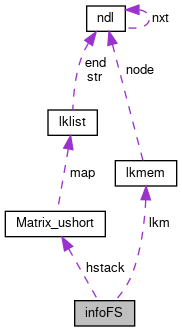
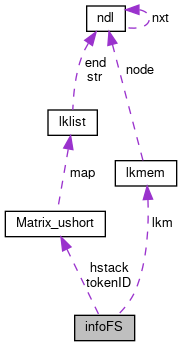
deploy: 90115dbbcb395f986a5ec3b7a64ab3b630ae7bd2

diff --git a/FindSimilar_8h_source.html b/FindSimilar_8h_source.html
@@ -90,7 +90,7 @@ $(function() {
 <div class="line"><a name="l00029"></a><span class="lineno">   29</span>&#160;<span class="preprocessor">#define ULONG  long</span></div>
 <div class="line"><a name="l00030"></a><span class="lineno">   30</span>&#160;<span class="preprocessor">#define UINT  int</span></div>
 <div class="line"><a name="l00031"></a><span class="lineno">   31</span>&#160;<span class="preprocessor">#define USHORT unsigned short</span></div>
-<div class="line"><a name="l00032"></a><span class="lineno">   32</span>&#160;<span class="preprocessor">#define ushort unsigned short</span></div>
+<div class="line"><a name="l00032"></a><span class="lineno">   32</span>&#160;<span class="preprocessor">#define ushort int</span></div>
 <div class="line"><a name="l00033"></a><span class="lineno">   33</span>&#160; </div>
 <div class="line"><a name="l00034"></a><span class="lineno">   34</span>&#160;<span class="preprocessor">#include &lt;stdlib.h&gt;</span></div>
 <div class="line"><a name="l00035"></a><span class="lineno">   35</span>&#160;<span class="preprocessor">#include &lt;assert.h&gt;</span></div>
@@ -118,7 +118,7 @@ $(function() {
 <div class="line"><a name="l00058"></a><span class="lineno">   58</span>&#160;<span class="keywordtype">void</span> init_lkmem(<a class="code" href="structlkmem.html">lkmem</a>* lkm, <span class="keywordtype">int</span> size);</div>
 <div class="line"><a name="l00059"></a><span class="lineno">   59</span>&#160;<span class="keywordtype">void</span> kill_lkmem(<a class="code" href="structlkmem.html">lkmem</a>* lkm);</div>
 <div class="line"><a name="l00060"></a><span class="lineno">   60</span>&#160;<a class="code" href="structndl.html">ndl</a>* get_ndl_mem(<a class="code" href="structlkmem.html">lkmem</a>*lkm);</div>
-<div class="line"><a name="l00061"></a><span class="lineno">   61</span>&#160;<span class="keywordtype">void</span> append_lk(<a class="code" href="structlklist.html">lklist</a>* list, <span class="keywordtype">short</span> val, <a class="code" href="structlkmem.html">lkmem</a>* lkm);</div>
+<div class="line"><a name="l00061"></a><span class="lineno">   61</span>&#160;<span class="keywordtype">void</span> append_lk(<a class="code" href="structlklist.html">lklist</a>* list, ushort val, <a class="code" href="structlkmem.html">lkmem</a>* lkm);</div>
 <div class="line"><a name="l00062"></a><span class="lineno">   62</span>&#160; </div>
 <div class="line"><a name="l00063"></a><span class="lineno">   63</span>&#160; </div>
 <div class="line"><a name="l00064"></a><span class="lineno">   64</span>&#160; </div>
@@ -140,27 +140,28 @@ $(function() {
 <div class="line"><a name="l00080"></a><span class="lineno">   80</span>&#160;    <span class="keywordtype">bool</span>* isVis;</div>
 <div class="line"><a name="l00081"></a><span class="lineno">   81</span>&#160;    <a class="code" href="structlkmem.html">lkmem</a> lkm;<span class="comment">//nodes memory</span></div>
 <div class="line"><a name="l00082"></a><span class="lineno">   82</span>&#160;    <span class="keywordtype">int</span>* resetID;</div>
-<div class="line"><a name="l00083"></a><span class="lineno">   83</span>&#160;} <a class="code" href="structinfoFS.html">infoFs</a>;</div>
-<div class="line"><a name="l00084"></a><span class="lineno">   84</span>&#160; </div>
+<div class="line"><a name="l00083"></a><span class="lineno">   83</span>&#160;    <a class="code" href="structMatrix__ushort.html">Matrix_ushort</a> tokenID;</div>
+<div class="line"><a name="l00084"></a><span class="lineno">   84</span>&#160;} <a class="code" href="structinfoFS.html">infoFs</a>;</div>
 <div class="line"><a name="l00085"></a><span class="lineno">   85</span>&#160; </div>
-<div class="line"><a name="l00086"></a><span class="lineno">   86</span>&#160;<span class="keywordtype">void</span> init_FS(<a class="code" href="structinfoFS.html">infoFs</a>* info);</div>
-<div class="line"><a name="l00087"></a><span class="lineno">   87</span>&#160;<span class="keywordtype">void</span> kill_FS(<a class="code" href="structinfoFS.html">infoFs</a>* info);</div>
-<div class="line"><a name="l00088"></a><span class="lineno">   88</span>&#160; </div>
-<div class="line"><a name="l00090"></a><span class="lineno">   90</span>&#160;<span class="keywordtype">int</span> <a class="code" href="FindSimilar_8h.html#a5d1c13d719525d926512bacf0d5e154c">popTokenHash</a>(<span class="keywordtype">char</span> message[], <span class="keywordtype">char</span> token[], <span class="keywordtype">int</span> iStr, <span class="keywordtype">int</span>* Hash);</div>
-<div class="line"><a name="l00091"></a><span class="lineno">   91</span>&#160;<span class="keywordtype">void</span> append_mHash(<a class="code" href="structinfoFS.html">infoFs</a>* info,<a class="code" href="structmail.html">mail</a>* mails, <span class="keywordtype">int</span> ID);</div>
-<div class="line"><a name="l00092"></a><span class="lineno">   92</span>&#160; </div>
-<div class="line"><a name="l00093"></a><span class="lineno">   93</span>&#160;<span class="keywordtype">void</span> proc_FS(<a class="code" href="structinfoFS.html">infoFs</a>* info, <a class="code" href="structmail.html">mail</a>* mails, <span class="keywordtype">int</span> n_mail);</div>
-<div class="line"><a name="l00094"></a><span class="lineno">   94</span>&#160; </div>
+<div class="line"><a name="l00086"></a><span class="lineno">   86</span>&#160; </div>
+<div class="line"><a name="l00087"></a><span class="lineno">   87</span>&#160;<span class="keywordtype">void</span> init_FS(<a class="code" href="structinfoFS.html">infoFs</a>* info);</div>
+<div class="line"><a name="l00088"></a><span class="lineno">   88</span>&#160;<span class="keywordtype">void</span> kill_FS(<a class="code" href="structinfoFS.html">infoFs</a>* info);</div>
+<div class="line"><a name="l00089"></a><span class="lineno">   89</span>&#160; </div>
+<div class="line"><a name="l00091"></a><span class="lineno">   91</span>&#160;<span class="keywordtype">int</span> <a class="code" href="FindSimilar_8h.html#a5d1c13d719525d926512bacf0d5e154c">popTokenHash</a>(<span class="keywordtype">char</span> message[], <span class="keywordtype">char</span> token[], <span class="keywordtype">int</span> iStr, <span class="keywordtype">int</span>* Hash);</div>
+<div class="line"><a name="l00092"></a><span class="lineno">   92</span>&#160;<span class="keywordtype">void</span> append_mHash(<a class="code" href="structinfoFS.html">infoFs</a>* info,<a class="code" href="structmail.html">mail</a>* mails, <span class="keywordtype">int</span> ID);</div>
+<div class="line"><a name="l00093"></a><span class="lineno">   93</span>&#160; </div>
+<div class="line"><a name="l00094"></a><span class="lineno">   94</span>&#160;<span class="keywordtype">void</span> proc_FS(<a class="code" href="structinfoFS.html">infoFs</a>* info, <a class="code" href="structmail.html">mail</a>* mails, <span class="keywordtype">int</span> n_mail);</div>
 <div class="line"><a name="l00095"></a><span class="lineno">   95</span>&#160; </div>
-<div class="line"><a name="l00096"></a><span class="lineno">   96</span>&#160;<span class="keywordtype">int</span> Hash_RK(<span class="keywordtype">char</span> s[]);</div>
-<div class="line"><a name="l00097"></a><span class="lineno">   97</span>&#160; </div>
-<div class="line"><a name="l00098"></a><span class="lineno">   98</span>&#160;<span class="keywordtype">void</span> answer_FS(<a class="code" href="structinfoFS.html">infoFs</a>*info, <a class="code" href="structmail.html">mail</a>* mails, <span class="keywordtype">int</span> ID, <span class="keywordtype">int</span> n_mail, <span class="keywordtype">double</span> threshold, <span class="keywordtype">int</span>* list, <span class="keywordtype">int</span>* nlist);</div>
-<div class="line"><a name="l00099"></a><span class="lineno">   99</span>&#160;<span class="keywordtype">void</span> register_hash(<a class="code" href="structinfoFS.html">infoFs</a>* info, <span class="keywordtype">int</span> ID, <span class="keywordtype">int</span> hash, <span class="keywordtype">char</span> token[], <span class="keywordtype">int</span> i);</div>
-<div class="line"><a name="l00100"></a><span class="lineno">  100</span>&#160; </div>
+<div class="line"><a name="l00096"></a><span class="lineno">   96</span>&#160; </div>
+<div class="line"><a name="l00097"></a><span class="lineno">   97</span>&#160;<span class="keywordtype">int</span> Hash_RK(<span class="keywordtype">char</span> s[]);</div>
+<div class="line"><a name="l00098"></a><span class="lineno">   98</span>&#160; </div>
+<div class="line"><a name="l00099"></a><span class="lineno">   99</span>&#160;<span class="keywordtype">void</span> answer_FS(<a class="code" href="structinfoFS.html">infoFs</a>*info, <a class="code" href="structmail.html">mail</a>* mails, <span class="keywordtype">int</span> ID, <span class="keywordtype">int</span> n_mail, <span class="keywordtype">double</span> threshold, <span class="keywordtype">int</span>* list, <span class="keywordtype">int</span>* nlist);</div>
+<div class="line"><a name="l00100"></a><span class="lineno">  100</span>&#160;<span class="keywordtype">void</span> register_hash(<a class="code" href="structinfoFS.html">infoFs</a>* info, <span class="keywordtype">int</span> ID, <span class="keywordtype">int</span>* hash, <span class="keywordtype">char</span> token[], <span class="keywordtype">int</span> i);</div>
 <div class="line"><a name="l00101"></a><span class="lineno">  101</span>&#160; </div>
-<div class="line"><a name="l00102"></a><span class="lineno">  102</span>&#160;<span class="preprocessor">#endif</span></div>
+<div class="line"><a name="l00102"></a><span class="lineno">  102</span>&#160; </div>
+<div class="line"><a name="l00103"></a><span class="lineno">  103</span>&#160;<span class="preprocessor">#endif</span></div>
 <div class="ttc" id="aFindSimilar_8h_html_a24413112ae8bb40dc1567a940a65247d"><div class="ttname"><a href="FindSimilar_8h.html#a24413112ae8bb40dc1567a940a65247d">ndl</a></div><div class="ttdeci">struct ndl ndl</div></div>
-<div class="ttc" id="aFindSimilar_8h_html_a5d1c13d719525d926512bacf0d5e154c"><div class="ttname"><a href="FindSimilar_8h.html#a5d1c13d719525d926512bacf0d5e154c">popTokenHash</a></div><div class="ttdeci">int popTokenHash(char message[], char token[], int iStr, int *Hash)</div><div class="ttdef"><b>Definition:</b> FindSimilar.c:101</div></div>
+<div class="ttc" id="aFindSimilar_8h_html_a5d1c13d719525d926512bacf0d5e154c"><div class="ttname"><a href="FindSimilar_8h.html#a5d1c13d719525d926512bacf0d5e154c">popTokenHash</a></div><div class="ttdeci">int popTokenHash(char message[], char token[], int iStr, int *Hash)</div><div class="ttdef"><b>Definition:</b> FindSimilar.c:107</div></div>
 <div class="ttc" id="astructMatrix__ushort_html"><div class="ttname"><a href="structMatrix__ushort.html">Matrix_ushort</a></div><div class="ttdef"><b>Definition:</b> FindSimilar.h:66</div></div>
 <div class="ttc" id="astructinfoFS_html"><div class="ttname"><a href="structinfoFS.html">infoFS</a></div><div class="ttdef"><b>Definition:</b> FindSimilar.h:76</div></div>
 <div class="ttc" id="astructlklist_html"><div class="ttname"><a href="structlklist.html">lklist</a></div><div class="ttdef"><b>Definition:</b> FindSimilar.h:46</div></div>

diff --git a/FindSimilar_8h.html b/FindSimilar_8h.html
@@ -155,7 +155,7 @@ Macros</h2></td></tr>
 #define&#160;</td><td class="memItemRight" valign="bottom"><b>USHORT</b>&#160;&#160;&#160;unsigned short</td></tr>
 <tr class="separator:aea50feaf24fd53b7ffab0e9b62ff30a6"><td class="memSeparator" colspan="2">&#160;</td></tr>
 <tr class="memitem:a6fafc11f63598e7fde1261792e381393"><td class="memItemLeft" align="right" valign="top"><a id="a6fafc11f63598e7fde1261792e381393"></a>
-#define&#160;</td><td class="memItemRight" valign="bottom"><b>ushort</b>&#160;&#160;&#160;unsigned short</td></tr>
+#define&#160;</td><td class="memItemRight" valign="bottom"><b>ushort</b>&#160;&#160;&#160;int</td></tr>
 <tr class="separator:a6fafc11f63598e7fde1261792e381393"><td class="memSeparator" colspan="2">&#160;</td></tr>
 </table><table class="memberdecls">
 <tr class="heading"><td colspan="2"><h2 class="groupheader"><a name="typedef-members"></a>
@@ -186,9 +186,9 @@ void&#160;</td><td class="memItemRight" valign="bottom"><b>kill_lkmem</b> (<a cl
 <tr class="memitem:acab1c351ce2a475a087d75420f32aa1a"><td class="memItemLeft" align="right" valign="top"><a id="acab1c351ce2a475a087d75420f32aa1a"></a>
 <a class="el" href="structndl.html">ndl</a> *&#160;</td><td class="memItemRight" valign="bottom"><b>get_ndl_mem</b> (<a class="el" href="structlkmem.html">lkmem</a> *lkm)</td></tr>
 <tr class="separator:acab1c351ce2a475a087d75420f32aa1a"><td class="memSeparator" colspan="2">&#160;</td></tr>
-<tr class="memitem:a5b56fea8871cceb9f2c826bcffc45d20"><td class="memItemLeft" align="right" valign="top"><a id="a5b56fea8871cceb9f2c826bcffc45d20"></a>
-void&#160;</td><td class="memItemRight" valign="bottom"><b>append_lk</b> (<a class="el" href="structlklist.html">lklist</a> *list, short val, <a class="el" href="structlkmem.html">lkmem</a> *lkm)</td></tr>
-<tr class="separator:a5b56fea8871cceb9f2c826bcffc45d20"><td class="memSeparator" colspan="2">&#160;</td></tr>
+<tr class="memitem:aa9982811e051137c740e19ea6412124e"><td class="memItemLeft" align="right" valign="top"><a id="aa9982811e051137c740e19ea6412124e"></a>
+void&#160;</td><td class="memItemRight" valign="bottom"><b>append_lk</b> (<a class="el" href="structlklist.html">lklist</a> *list, ushort val, <a class="el" href="structlkmem.html">lkmem</a> *lkm)</td></tr>
+<tr class="separator:aa9982811e051137c740e19ea6412124e"><td class="memSeparator" colspan="2">&#160;</td></tr>
 <tr class="memitem:a3ad210acc954db653f5af065d704a438"><td class="memItemLeft" align="right" valign="top"><a id="a3ad210acc954db653f5af065d704a438"></a>
 void&#160;</td><td class="memItemRight" valign="bottom"><b>init_Matrix_ushort</b> (<a class="el" href="structMatrix__ushort.html">Matrix_ushort</a> *M, int nrow)</td></tr>
 <tr class="separator:a3ad210acc954db653f5af065d704a438"><td class="memSeparator" colspan="2">&#160;</td></tr>
@@ -215,9 +215,9 @@ int&#160;</td><td class="memItemRight" valign="bottom"><b>Hash_RK</b> (char s[])
 <tr class="memitem:adf13c3d8eef93c92de06ea0549f7e360"><td class="memItemLeft" align="right" valign="top"><a id="adf13c3d8eef93c92de06ea0549f7e360"></a>
 void&#160;</td><td class="memItemRight" valign="bottom"><b>answer_FS</b> (<a class="el" href="structinfoFS.html">infoFs</a> *info, <a class="el" href="structmail.html">mail</a> *mails, int ID, int n_mail, double threshold, int *list, int *nlist)</td></tr>
 <tr class="separator:adf13c3d8eef93c92de06ea0549f7e360"><td class="memSeparator" colspan="2">&#160;</td></tr>
-<tr class="memitem:a2b92e2b140b5fc3d41bbaf80643a04cb"><td class="memItemLeft" align="right" valign="top"><a id="a2b92e2b140b5fc3d41bbaf80643a04cb"></a>
-void&#160;</td><td class="memItemRight" valign="bottom"><b>register_hash</b> (<a class="el" href="structinfoFS.html">infoFs</a> *info, int ID, int hash, char token[], int i)</td></tr>
-<tr class="separator:a2b92e2b140b5fc3d41bbaf80643a04cb"><td class="memSeparator" colspan="2">&#160;</td></tr>
+<tr class="memitem:a55d99469e73b926ab91e10e2b535bd61"><td class="memItemLeft" align="right" valign="top"><a id="a55d99469e73b926ab91e10e2b535bd61"></a>
+void&#160;</td><td class="memItemRight" valign="bottom"><b>register_hash</b> (<a class="el" href="structinfoFS.html">infoFs</a> *info, int ID, int *hash, char token[], int i)</td></tr>
+<tr class="separator:a55d99469e73b926ab91e10e2b535bd61"><td class="memSeparator" colspan="2">&#160;</td></tr>
 </table>
 <a name="details" id="details"></a><h2 class="groupheader">Detailed Description</h2>
 <div class="textblock"><p>Group Analysis. Use Jaccob's similarity with hash table to identify similar strings. </p>

diff --git a/structinfoFS.html b/structinfoFS.html
@@ -73,7 +73,7 @@ Collaboration diagram for infoFS:</div>
 <div class="dyncontent">
 <div class="center"><img src="structinfoFS__coll__graph.png" border="0" usemap="#ainfoFS_coll__map" alt="Collaboration graph"/></div>
 <map name="ainfoFS_coll__map" id="ainfoFS_coll__map">
-<area shape="rect" title=" " alt="" coords="75,300,135,327"/>
+<area shape="rect" title=" " alt="" coords="75,315,135,341"/>
 <area shape="rect" href="structMatrix__ushort.html" title=" " alt="" coords="5,211,105,237"/>
 <area shape="rect" href="structlklist.html" title=" " alt="" coords="48,109,97,136"/>
 <area shape="rect" href="structndl.html" title=" " alt="" coords="87,5,125,32"/>
@@ -101,6 +101,9 @@ bool *&#160;</td><td class="memItemRight" valign="bottom"><b>isVis</b></td></tr>
 <tr class="memitem:ad8f336ee7f94b281827152da5059d73a"><td class="memItemLeft" align="right" valign="top"><a id="ad8f336ee7f94b281827152da5059d73a"></a>
 int *&#160;</td><td class="memItemRight" valign="bottom"><b>resetID</b></td></tr>
 <tr class="separator:ad8f336ee7f94b281827152da5059d73a"><td class="memSeparator" colspan="2">&#160;</td></tr>
+<tr class="memitem:a53dc93f952d8d5c0377a0dd5a540ec70"><td class="memItemLeft" align="right" valign="top"><a id="a53dc93f952d8d5c0377a0dd5a540ec70"></a>
+<a class="el" href="structMatrix__ushort.html">Matrix_ushort</a>&#160;</td><td class="memItemRight" valign="bottom"><b>tokenID</b></td></tr>
+<tr class="separator:a53dc93f952d8d5c0377a0dd5a540ec70"><td class="memSeparator" colspan="2">&#160;</td></tr>
 </table>
 <hr/>The documentation for this struct was generated from the following files:<ul>
 <li>src/<a class="el" href="FindSimilar_8h_source.html">FindSimilar.h</a></li>

diff --git a/test__FS__spurious__hit_8h_source.html b/test__FS__spurious__hit_8h_source.html
@@ -185,7 +185,7 @@ $(function() {
 <div class="line"><a name="l00114"></a><span class="lineno">  114</span>&#160; </div>
 <div class="line"><a name="l00115"></a><span class="lineno">  115</span>&#160;<span class="preprocessor">#endif </span></div>
 <div class="ttc" id="aFindSimilar_8h_html"><div class="ttname"><a href="FindSimilar_8h.html">FindSimilar.h</a></div><div class="ttdoc">Group Analysis. Use Jaccob's similarity with hash table to identify similar strings.</div></div>
-<div class="ttc" id="aFindSimilar_8h_html_a5d1c13d719525d926512bacf0d5e154c"><div class="ttname"><a href="FindSimilar_8h.html#a5d1c13d719525d926512bacf0d5e154c">popTokenHash</a></div><div class="ttdeci">int popTokenHash(char message[], char token[], int iStr, int *Hash)</div><div class="ttdef"><b>Definition:</b> FindSimilar.c:101</div></div>
+<div class="ttc" id="aFindSimilar_8h_html_a5d1c13d719525d926512bacf0d5e154c"><div class="ttname"><a href="FindSimilar_8h.html#a5d1c13d719525d926512bacf0d5e154c">popTokenHash</a></div><div class="ttdeci">int popTokenHash(char message[], char token[], int iStr, int *Hash)</div><div class="ttdef"><b>Definition:</b> FindSimilar.c:107</div></div>
 <div class="ttc" id="autils_8h_html"><div class="ttname"><a href="utils_8h.html">utils.h</a></div><div class="ttdoc">General Utilities for C language.</div></div>
 </div><!-- fragment --></div><!-- contents -->
 <!-- start footer part -->

diff --git a/structinfoFS-members.html b/structinfoFS-members.html
@@ -74,6 +74,7 @@ $(function() {
   <tr bgcolor="#f0f0f0"><td class="entry"><b>num_unique</b> (defined in <a class="el" href="structinfoFS.html">infoFS</a>)</td><td class="entry"><a class="el" href="structinfoFS.html">infoFS</a></td><td class="entry"></td></tr>
   <tr bgcolor="#f0f0f0" class="even"><td class="entry"><b>resetID</b> (defined in <a class="el" href="structinfoFS.html">infoFS</a>)</td><td class="entry"><a class="el" href="structinfoFS.html">infoFS</a></td><td class="entry"></td></tr>
   <tr bgcolor="#f0f0f0"><td class="entry"><b>SimList</b> (defined in <a class="el" href="structinfoFS.html">infoFS</a>)</td><td class="entry"><a class="el" href="structinfoFS.html">infoFS</a></td><td class="entry"></td></tr>
+  <tr bgcolor="#f0f0f0" class="even"><td class="entry"><b>tokenID</b> (defined in <a class="el" href="structinfoFS.html">infoFS</a>)</td><td class="entry"><a class="el" href="structinfoFS.html">infoFS</a></td><td class="entry"></td></tr>
 </table></div><!-- contents -->
 <!-- start footer part -->
 <hr class="footer"/><address class="footer"><small>
